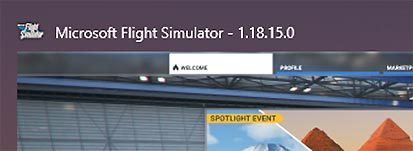
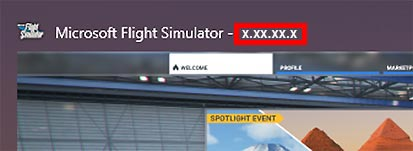
Removed version numbers from example screenshots

Changed region(s): [[0.5521, 0.1325, 0.7554, 0.3179]]

diff --git a/docs/start/support.md b/docs/start/support.md
@@ -93,7 +93,7 @@ The version of Microsoft Flight Simulator 2020 you are using can be found via se
 
 - Using the MS Store Update dialog.
 
-    ![MSFS-Version-MSStore](../assets/support-guide/MSFS-Version-MSStore.png "MSFS-Version-MSStore")
+    ![MSFS-Version-MSStore](../assets/support-guide/MSFS-Version-MSStore.jpg "MSFS-Version-MSStore")
 
 ### A32NX Version
 
